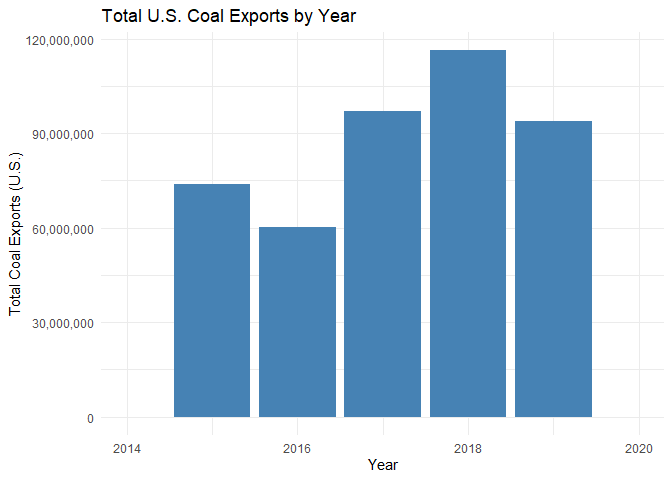
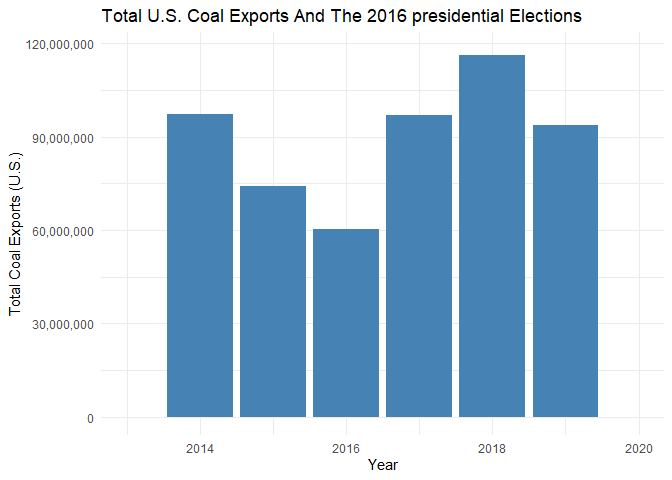
Edits to figure 3

diff --git a/R/coal.html b/R/coal.html
@@ -646,13 +646,13 @@ The top consuming coal countries are the following… 1. India<br />
 ## 19  2020                50006784</code></pre>
 <div class="sourceCode" id="cb29"><pre class="sourceCode r"><code class="sourceCode r"><span id="cb29-1"><a href="#cb29-1" aria-hidden="true" tabindex="-1"></a><span class="co">#class(year)</span></span>
 <span id="cb29-2"><a href="#cb29-2" aria-hidden="true" tabindex="-1"></a>  </span>
-<span id="cb29-3"><a href="#cb29-3" aria-hidden="true" tabindex="-1"></a>plot<span class="ot">&lt;-</span><span class="fu">ggplot</span>(<span class="at">data=</span>coal_clean, <span class="fu">aes</span>(<span class="at">x=</span>year, <span class="at">y=</span>total)) <span class="sc">+</span></span>
+<span id="cb29-3"><a href="#cb29-3" aria-hidden="true" tabindex="-1"></a>plot3<span class="ot">&lt;-</span><span class="fu">ggplot</span>(<span class="at">data=</span>coal_clean, <span class="fu">aes</span>(<span class="at">x=</span>year, <span class="at">y=</span>total)) <span class="sc">+</span></span>
 <span id="cb29-4"><a href="#cb29-4" aria-hidden="true" tabindex="-1"></a>  <span class="fu">geom_bar</span>(<span class="at">stat=</span><span class="st">&quot;identity&quot;</span>, <span class="at">fill=</span><span class="st">&quot;steelblue&quot;</span>)<span class="sc">+</span></span>
-<span id="cb29-5"><a href="#cb29-5" aria-hidden="true" tabindex="-1"></a>  <span class="fu">theme_minimal</span>() <span class="sc">+</span> <span class="fu">scale_y_continuous</span>(<span class="at">labels =</span> scales<span class="sc">::</span>comma) <span class="sc">+</span> <span class="fu">labs</span>(<span class="at">title =</span> <span class="st">&quot;Total U.S. Coal Exports by Year&quot;</span>, <span class="at">x =</span> <span class="st">&quot;Year&quot;</span>, <span class="at">y =</span> <span class="st">&quot;Total Coal Exports (U.S.)&quot;</span>) <span class="sc">+</span>  <span class="fu">xlim</span>(<span class="dv">2014</span>, <span class="dv">2020</span>)</span>
-<span id="cb29-6"><a href="#cb29-6" aria-hidden="true" tabindex="-1"></a>plot</span></code></pre></div>
-<pre><code>## Warning: Removed 7108 rows containing missing values (position_stack).</code></pre>
-<pre><code>## Warning: Removed 932 rows containing missing values (geom_bar).</code></pre>
[1 lines of base64/hex data omitted]
+<span id="cb29-5"><a href="#cb29-5" aria-hidden="true" tabindex="-1"></a>  <span class="fu">theme_minimal</span>() <span class="sc">+</span> <span class="fu">scale_y_continuous</span>(<span class="at">labels =</span> scales<span class="sc">::</span>comma) <span class="sc">+</span> <span class="fu">labs</span>(<span class="at">title =</span> <span class="st">&quot;Total U.S. Coal Exports And The 2016 presidential Elections&quot;</span>, <span class="at">x =</span> <span class="st">&quot;Year&quot;</span>, <span class="at">y =</span> <span class="st">&quot;Total Coal Exports (U.S.)&quot;</span>) <span class="sc">+</span>  <span class="fu">xlim</span>(<span class="dv">2013</span>, <span class="dv">2020</span>)</span>
+<span id="cb29-6"><a href="#cb29-6" aria-hidden="true" tabindex="-1"></a>plot3</span></code></pre></div>
+<pre><code>## Warning: Removed 6468 rows containing missing values (position_stack).</code></pre>
+<pre><code>## Warning: Removed 979 rows containing missing values (geom_bar).</code></pre>
[1 lines of base64/hex data omitted]
 </div>
 
 

diff --git a/R/coal.md b/R/coal.md
@@ -463,18 +463,18 @@ coal_clean %>%
 ```r
 #class(year)
   
-plot<-ggplot(data=coal_clean, aes(x=year, y=total)) +
+plot3<-ggplot(data=coal_clean, aes(x=year, y=total)) +
   geom_bar(stat="identity", fill="steelblue")+
-  theme_minimal() + scale_y_continuous(labels = scales::comma) + labs(title = "Total U.S. Coal Exports by Year", x = "Year", y = "Total Coal Exports (U.S.)") +  xlim(2014, 2020)
-plot
+  theme_minimal() + scale_y_continuous(labels = scales::comma) + labs(title = "Total U.S. Coal Exports And The 2016 presidential Elections", x = "Year", y = "Total Coal Exports (U.S.)") +  xlim(2013, 2020)
+plot3
 ```
 
 ```
-## Warning: Removed 7108 rows containing missing values (position_stack).
+## Warning: Removed 6468 rows containing missing values (position_stack).
 ```
 
 ```
-## Warning: Removed 932 rows containing missing values (geom_bar).
+## Warning: Removed 979 rows containing missing values (geom_bar).
 ```
 
 ![](coal_files/figure-html/unnamed-chunk-10-1.png)<!-- -->
